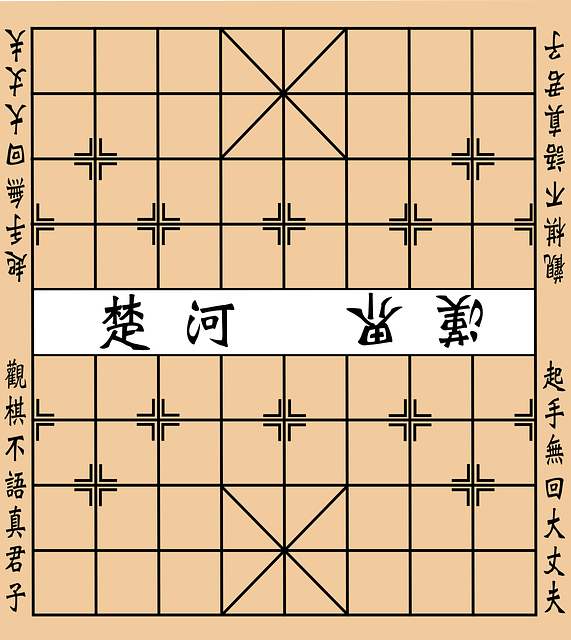
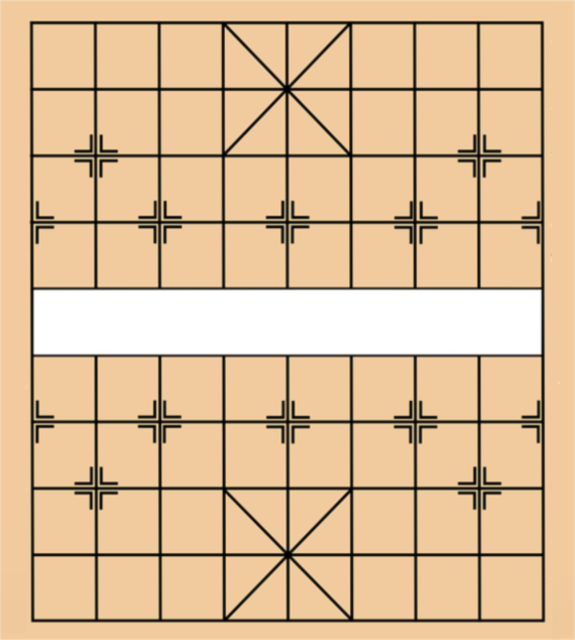
Change size of background

Changed region(s): [[0.0, 0.0312, 1.0, 1.0]]

diff --git a/main.py b/main.py
@@ -40,7 +40,7 @@ def str_to_type(type_str: str) -> GameTree:
         return GameTreeMinimax
     elif type_str == 'MCTS':
         pass
-        return GameTreeMCTS
+        
 
 def draw_gamestate(game_state: GameState, inverse: bool = False) -> None:
     """Hàm vẽ trạng thái trò chơi"""
@@ -112,7 +112,7 @@ def simulation_screen(
                           text_input="Dừng", font=resource.get_font(40, 0), base_color="#AB001B", hovering_color="Black")
 
     # Mở rộng kích thước của màn hình
-    SCREEN = pygame.display.set_mode((900, 664))
+    SCREEN = pygame.display.set_mode((896, 664))
     MOVE_TIME = 0.5
 
     # Tạo các biến cần thiết

diff --git a/resource.py b/resource.py
@@ -49,7 +49,7 @@ def board_sprite():
 
 def background():
     """ Trả về hình nền của bàn cờ. """
-    background_img = pygame.image.load(RESOURCES_PATH + 'background.jpg')
+    background_img = pygame.image.load(RESOURCES_PATH + 'background.png')
     return background_img, (0, 0)
     
 
